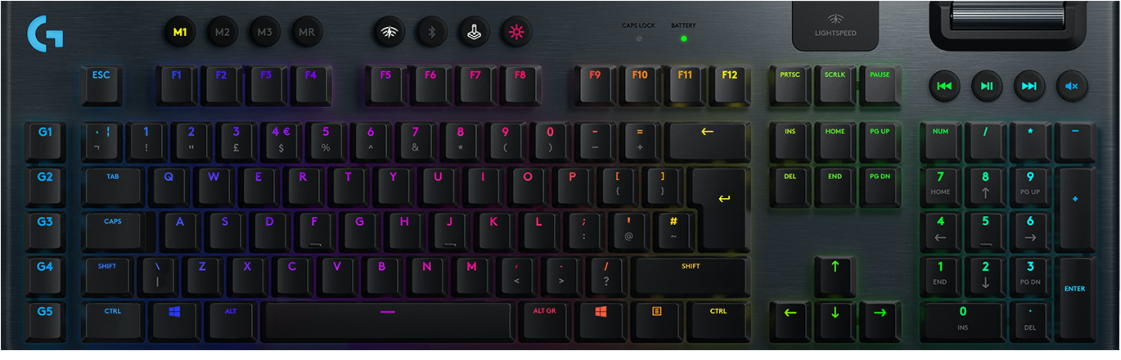
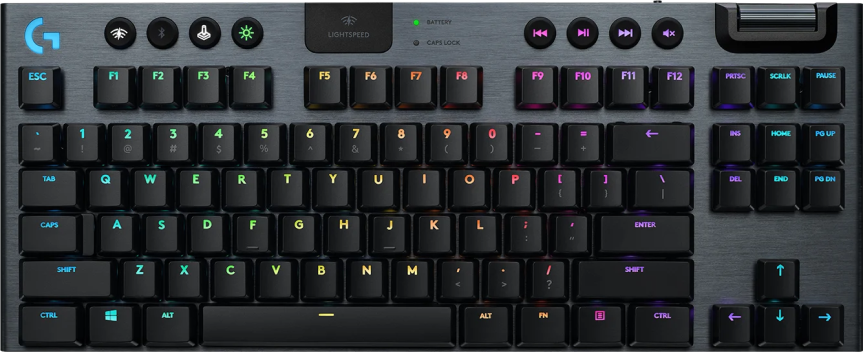
updateConfig

diff --git a/src/page/Config3DMode/Config3DMode.tsx b/src/page/Config3DMode/Config3DMode.tsx
@@ -12,7 +12,7 @@ import { NameModel } from '../../components/Views/NameModel/NameModel';
 import { LoadingConfig } from '../LoadingConfig/LoadingConfig';
 import s from './Config3DMode.module.scss';
 import light from './../../assets/img/light.png'
-import { AwaitThreekitLoad } from '@threekit-tools/treble/dist';
+import { AwaitThreekitLoad, Player } from '@threekit-tools/treble/dist';
 import { SetDefafaultValue } from '../../components/SetDefafaultValue/SetDefafaultValue';
 
 export const Config3DMode = () => {
@@ -34,25 +34,34 @@ export const Config3DMode = () => {
                         <NameModel />
                     </div>
                     <div className={s.page_config}>
+                        <div className={s.player}>
+
+                            <Player minHeight="250px">
+                                <LoaderPlayerChangeAttribute />
+                            </Player>
+                        </div>
                         <div className={s.boxConfig}>
                             <div className={s.wrapHeader}>
                                 <HeaderInfoConfig />
                             </div>
 
-                            <div className={s.Player}>
+                            {/* <div className={s.Player}>
                                 <PlayerComponent />
-                            </div>
+                            </div> */}
                             <div className={s.wrapInfo}>
                                 <InfoMessagesWrap />
                             </div>
+                        </div>
+                        <div className={s.boxConfig_BG}> 
+                            <PlayerComponent /> 
                         </div>
 
                         <div className={s.boxControlConfig}>
                             <ControlPanel />
                         </div>
-                       
-                            <SetDefafaultValue />
-               
+
+                        <SetDefafaultValue />
+
 
                     </div>
 

diff --git a/src/page/Config3DMode/Config3DMode.module.scss b/src/page/Config3DMode/Config3DMode.module.scss
@@ -28,7 +28,7 @@
             z-index: 3;
             // display: flex;
             // align-items: center;
-            position: relative;
+            // position: relative;
             height: calc(100vh - 260px - 54px);
             display: grid;
             grid-template-columns: 1fr 384px;
@@ -38,9 +38,11 @@
                 position: relative;
                 width: 100%;
                 height: 100%;
-                z-index: 3;
+                z-index: 4;
+                pointer-events: none;
 
                 & .wrapHeader {
+                    pointer-events: auto;
                     position: absolute;
                     left: 0;
                     top: 0;
@@ -54,6 +56,7 @@
                 }
 
                 & .wrapInfo {
+                    pointer-events: auto;
                     position: absolute;
                     left: 0;
                     bottom: 76px;
@@ -112,4 +115,22 @@
     top: 0;
     width: 100vw;
     height: 100vh;
+}
+
+.player {
+    position: absolute;
+    height: 100vh;
+    width: 100%;
+    left: 0;
+    top: 0;
+    z-index: 3;
+}
+
+.boxConfig_BG {
+    position: absolute;
+    height: 100vh;
+    width: calc(100% - 434px - 160px);
+    z-index: 1;
+    left: 0;
+    top: 0;
 }

diff --git a/src/page/MainPage/sections/IntroductorySection/IntroductorySection.tsx b/src/page/MainPage/sections/IntroductorySection/IntroductorySection.tsx
@@ -21,8 +21,8 @@ export const IntroductorySection = ({ executeScroll }: any) => {
             <div className={s.description_config}>
 
                 <div className={`${s.description_config_item} ${s.description_keyboard}`}>
-                    <div className={s.name}>
-                        <span>G915</span>
+                    <div className={s.name}> 
+                        <span>G915 TKL</span>
                         LIGHTSPEED
                     </div>
                     <img src={keyboard} alt="" />
@@ -38,7 +38,7 @@ export const IntroductorySection = ({ executeScroll }: any) => {
             </div>
             <div className={`${s.btn} ${s.main__scrol}`}>
                 <div className={s.main__scrol_text}>Available for customization</div>
-                <div className={s.main__scrol_icon} onClick={()=>executeScroll()}>
+                <div className={s.main__scrol_icon} onClick={() => executeScroll()}>
                     <MouseSvg />
                 </div>
             </div>

diff --git a/src/page/MainPage/MainPage.tsx b/src/page/MainPage/MainPage.tsx
@@ -12,7 +12,7 @@ import { useNavigate } from 'react-router-dom'
 
 const useScroll = () => {
     const elRef: any = useRef(null);
-    const executeScroll = () => elRef.current.scrollIntoView({behavior: 'smooth'});
+    const executeScroll = () => elRef.current.scrollIntoView({ behavior: 'smooth' });
 
     return [executeScroll, elRef];
 };
@@ -40,7 +40,7 @@ export const MainPage = () => {
                             Badge={<div className={s.badge}>
                                 <span>G</span>Siries
                             </div>}
-                            Title={<><span>G915</span>LIGHTSPEED</>}
+                            Title={<><span>G915 TKL</span>LIGHTSPEED</>}
                             buttonClick={<Button
                                 text='Customize keyboard'
                                 onClick={() => { navigate("/keyboard"); }}

diff --git a/src/components/PlayerComponent/PlayerComponent.tsx b/src/components/PlayerComponent/PlayerComponent.tsx
@@ -14,12 +14,7 @@ export const PlayerComponent = () => {
             <div className={s.wrapSvgRadial}>
                 <RadialBG />
             </div>
-            <div className={s.player}>
-
-                <Player minHeight="250px">
-                    <LoaderPlayerChangeAttribute />
-                </Player>
-            </div>
+        
 
         </div>
     )

diff --git a/src/components/PlayerComponent/PlayerComponent.module.scss b/src/components/PlayerComponent/PlayerComponent.module.scss
@@ -46,8 +46,8 @@
 .wrapSvgRadial {
     z-index: -1;
     position: absolute;
-    width: 135%;
-    height: 135%;
+    width: 100%;
+    height: 110%;
     left: 50%;
     top: 45%;
     transform: translate(-50%, -50%);

diff --git a/src/functionConfiguration/dataConfiguration/dataConfig.ts b/src/functionConfiguration/dataConfiguration/dataConfig.ts
@@ -1,6 +1,6 @@
 const textConfig = {
     keyboard: {
-        name: 'G915 LIGHTSPEED',
+        name: 'G915 TKL LIGHTSPEED',
         model: 'Wireless RGB Mechanical Gaming Keyboard',
     },
     mouse: {
